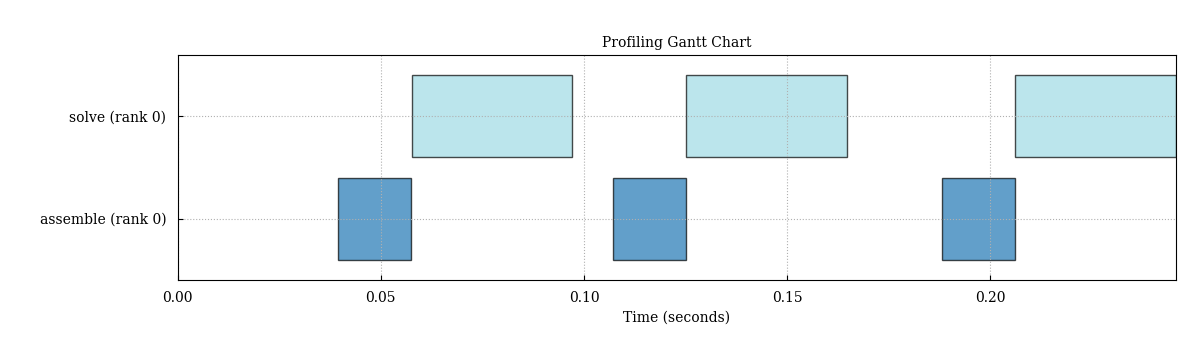
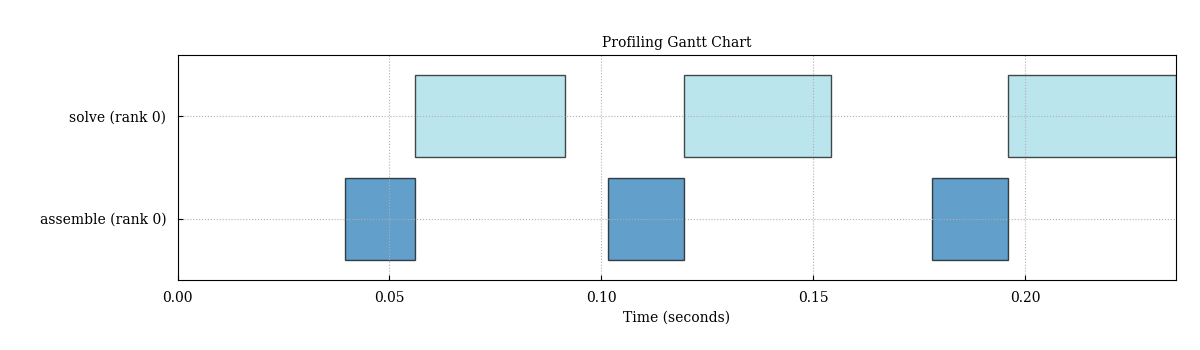
Generate figures with docs/render_markdown.py

diff --git a/docs/render_markdown.py b/docs/render_markdown.py
@@ -9,9 +9,42 @@ from __future__ import annotations
 
 import re
 import subprocess
+import sys
 from pathlib import Path
 
 ROOT = Path(__file__).resolve().parent.parent
+
+
+def generate_assets() -> None:
+    """Generate benchmark and documentation figures before rendering QMD."""
+
+    generators = [
+        (
+            "overhead benchmark",
+            ROOT / "examples" / "benchmark_overhead.py",
+            "-o",
+            ROOT / "figures",
+        ),
+        (
+            "README figures",
+            ROOT / "examples" / "generate_readme_figures.py",
+            "-o",
+            ROOT / "figures",
+        ),
+        (
+            "CLI documentation figures",
+            ROOT / "examples" / "generate_cli_docs_figures.py",
+            "-o",
+            ROOT / "figures" / "cli",
+        ),
+    ]
+    for name, script, option, output in generators:
+        print(f"Generating {name}")
+        subprocess.run(
+            [sys.executable, str(script), option, str(output)],
+            cwd=ROOT,
+            check=True,
+        )
 
 
 def qmd_sources() -> list[Path]:
@@ -54,6 +87,7 @@ def render(source: Path) -> None:
 
 
 def main() -> None:
+    generate_assets()
     sources = qmd_sources()
     if not sources:
         raise SystemExit("No .qmd sources found")
